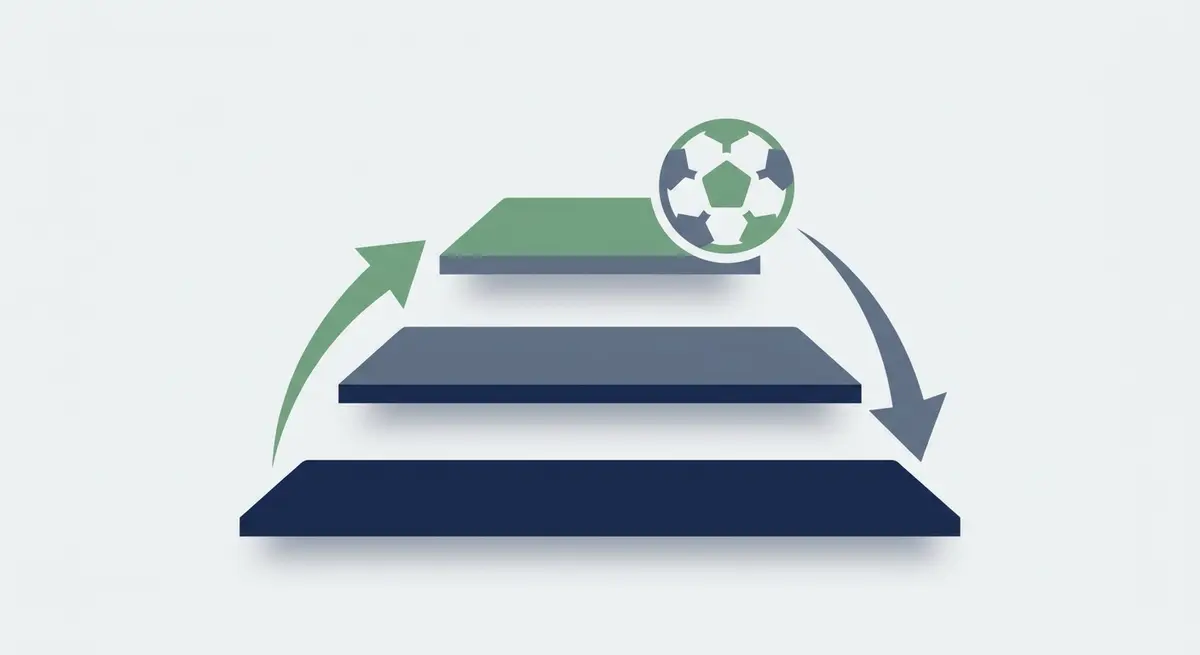
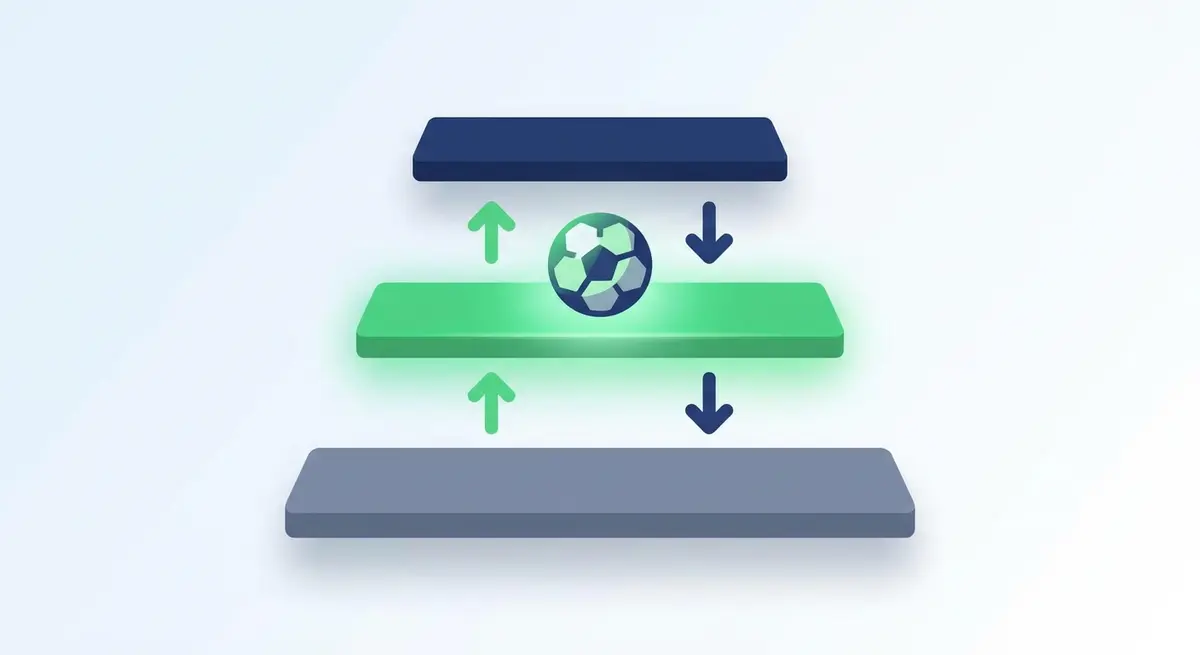
content(vtora-liga-format): image fix pass 2 (regenerate hero — adjacent-tier arrows, highlight middle); review 3 score 100 PASS
Claude-Session: https://claude.ai/code/session_01AwuYFUs6rnqM6ZnGzgYJvp

Changed region(s): [[0.185, 0.1527, 0.8017, 0.855]]

diff --git a/VsichkiKazina/articles/2026-11-03-vtora-liga-format/08-image-review-3.md b/VsichkiKazina/articles/2026-11-03-vtora-liga-format/08-image-review-3.md
@@ -1,0 +1,34 @@
+# Step 8 — Gemini image review — pass 3 (after hero regeneration)
+
+Command: `python3 scripts/gemini_image_review.py VsichkiKazina/articles/2026-11-03-vtora-liga-format/05b-final-draft.md images/vtora-liga-piramida-promociq-izpadane.svg images/vtora-liga-piramida-hero.webp`
+Date (UTC): 2026-11-03
+
+## Result
+**Score: 100 — PASS** (>= 80). No integrity failure. Both images ready to publish.
+
+## Keep-best ledger (image set) — FINAL
+- pass 1: score 75 (SVG wording issue → fixed)
+- pass 2: score 70 (hero swept bottom→top directly → regenerated)
+- pass 3: **score 100 — PASS (kept)**
+
+Hero v2 regenerated with a step-by-step-arrows prompt: the middle tier (Втора лига) is the
+highlighted focal point with a football on it, arrows move only between ADJACENT tiers
+(bottom→middle, middle→top, and the downward counterparts), no direct bottom-to-top jump —
+resolving the pass-2 relevance critique. Hero WebP 8 KB (PNG → ImageMagick → WebP; Pillow
+unavailable). Infographic unchanged since the pass-1 fix (reviewer: "безупречен").
+
+## Gemini verbatim verdict (pass 3)
+
+**Оценка: 100/100**
+**Присъда:** PASS
+
+И двете изображения са отлично подготвени, напълно релевантни и отговарят на всички строги изисквания за качество, SEO и отговорна игра. Не са открити никакви дефекти.
+
+- **Релевантност и стойност:** Илюстрацията (WebP) перфектно визуализира концепцията за футболна пирамида с три нива и движението между тях, като акцентира върху средното ниво. Инфографиката (SVG) синтезира точните правила и факти от текста.
+- **Точност:** Всички данни в инфографиката (3/1/0, 1950 и 2016, рекордът на Берое от 9 титли, шампионът Дунав, вариациите в броя отбори 14/16/17/18/20) съвпадат точно с текста.
+- **Интегритет и хигиена:** Няма измислени лога, фалшиви интерфейси, лица на хора или глорифициране на хазарта.
+- **Отговорна игра:** Неутрален тон; инфографиката съдържа маркер „18+ Играйте отговорно".
+- **SEO метаданни:** Описателни файлови имена с малки букви и тирета; изчерпателни и точни ALT текстове.
+- **Техническо качество и лейаут (SVG):** Безупречен код — правилни координати, без припокриване, без отрязани букви, достатъчни отстояния. Растерът е качествен, без артефакти.
+
+Изображенията са готови за директно публикуване.
